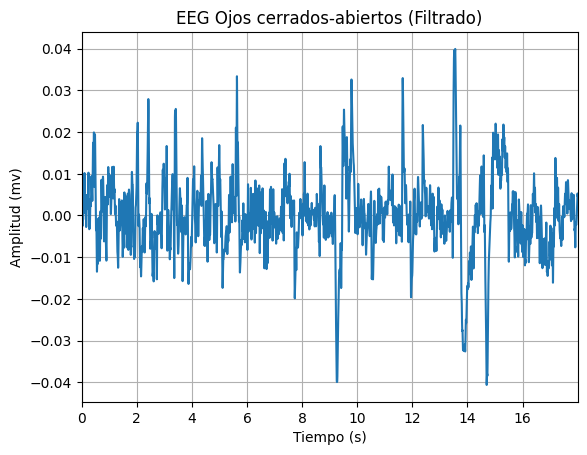
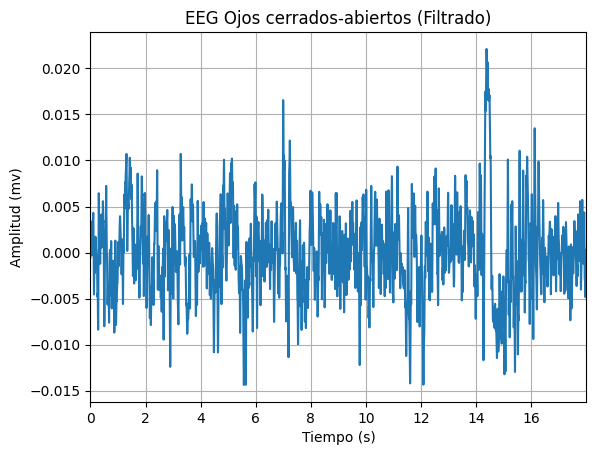
EEGcode

diff --git a/ISB/Laboratorio 6 - Filtros digitales/Informe.md b/ISB/Laboratorio 6 - Filtros digitales/Informe.md
@@ -116,10 +116,10 @@ Se tomó registro de la señal en el usuario en una primera y segunda fase de re
 
 | Campo| Señal Cruda | Filtro IRR | Filtro FIR |
 |:--------------:|:--------------:|:--------------:|:--------------:|
-| Figura X. Primera fase de referencia |![alt text](image-16.png) | ![alt text](image-15.png) | ![alt text](imageX.png) |
-| Figura X. Fase 2 - Ciclo de "ojos cerrados-abiertos" |![alt text](image-12.png) |![alt text](image-11.png) |![alt text](imageX.png) |
-| Figura X. Ejercicios mentales simples | ![alt text](image-27.png)| ![alt text](image-26.png)|![alt text](imageX.png) |
-| Figura X. Ejercicios mentales complejo |![alt text](image-29.png)| ![alt text](image-28.png) |![alt text](imageX.png) |
+| Figura X. Primera fase de referencia |![alt text](image-36.png) | ![alt text](image-15.png) | ![alt text](image-16.png) |
+| Figura X. Fase 2 - Ciclo de "ojos cerrados-abiertos" |![alt text](image-12.png) |![alt text](image-11.png)|![alt text](image-35.png)|
+| Figura X. Ejercicios mentales simples | ![alt text](image-27.png)| ![alt text](image-26.png)|![alt text](image-33.png) |
+| Figura X. Ejercicios mentales complejo |![alt text](image-29.png)| ![alt text](image-28.png) |![alt text](image-34.png)|
 
 
 ## Código en Python
@@ -512,8 +512,89 @@ plt.margins(0, 0.05)
 
 ``` python
 
+fs=1000 #Frecuencia de muestreo
+t = [num / fs for num in n]; N=len(n)
+M = 37;
+Fc = 50
+wc = 2*np.pi*Fc/fs
+w = firwin(numtaps=M, cutoff=[8,12], window='blackman', fs=1000,pass_zero=False)
+w = np.round(w,3)
+nm = np.arange(M)
+W = np.fft.fft(w,N)
+W = np.round(W[0:N//2],3)
+y_filtrado = lfilter(w, np.array(1),EEGsignal3)
 
+plt.figure()
+n = [i/1000 for i in range(0,len(y_filtrado))]
+plt.plot(n[2600: 4200], y_filtrado[2600: 4200])
+plt.ylabel("Amplitud (mv)")
+plt.xlabel("Tiempo (s)")
+plt.title("EEG en Estado Basal (Referencia) (Filtrado)")
+plt.grid(True)
+plt.margins(0, 0.05)
 
+fs=1000 #Frecuencia de muestreo
+t = [num / fs for num in n]; N=len(n)
+M = 37;
+Fc = 50
+wc = 2*np.pi*Fc/fs
+w = firwin(numtaps=M, cutoff=[30,40], window='blackman', fs=1000, pass_zero=False)
+w = np.round(w,3)
+nm = np.arange(M)
+W = np.fft.fft(w,N)
+W = np.round(W[0:N//2],3)
+y_filtrado = lfilter(w, np.array(1),EEGsignal2)
+
+plt.figure()
+n = [i/1000 for i in range(0,len(y_filtrado))]
+plt.plot(n[2600: 4200], y_filtrado[2600: 4200])
+plt.ylabel("Amplitud (mv)")
+plt.xlabel("Tiempo (s)")
+plt.title("EEG en Durante Ejericios Simples (Filtrado)")
+plt.grid(True)
+plt.margins(0, 0.05)
+
+fs=1000 #Frecuencia de muestreo
+t = [num / fs for num in n]; N=len(n)
+M = 37;
+Fc = 50
+wc = 2*np.pi*Fc/fs
+w = firwin(numtaps=M, cutoff=[30,40], window='blackman', fs=1000, pass_zero=False)
+w = np.round(w,3)
+nm = np.arange(M)
+W = np.fft.fft(w,N)
+W = np.round(W[0:N//2],3)
+y_filtrado = lfilter(w, np.array(1),EEGsignal1)
+
+plt.figure()
+n = [i/1000 for i in range(0,len(y_filtrado))]
+plt.plot(n[2600: 4200], y_filtrado[2600: 4200])
+plt.ylabel("Amplitud (mv)")
+plt.xlabel("Tiempo (s)")
+plt.title("EEG en Durante Ejericios Difíciles (Filtrado)")
+plt.grid(True)
+plt.margins(0, 0.05)
+
+fs=1000 #Frecuencia de muestreo
+t = [num / fs for num in n]; N=len(n)
+M = 37;
+Fc = 50
+wc = 2*np.pi*Fc/fs
+w = firwin(numtaps=M, cutoff=[8,12], window='blackman', fs=1000,pass_zero=False)
+w = np.round(w,3)
+nm = np.arange(M)
+W = np.fft.fft(w,N)
+W = np.round(W[0:N//2],3)
+y_filtrado = lfilter(w, np.array(1),EEGsignal4)
+
+plt.figure()
+n = [i/1000 for i in range(0,len(y_filtrado))]
+plt.plot(n[2600: 4200], y_filtrado[2600: 4200])
+plt.ylabel("Amplitud (mv)")
+plt.xlabel("Tiempo (s)")
+plt.title("EEG Ojos cerrados-abiertos (Filtrado)")
+plt.grid(True)
+plt.margins(0, 0.05)
 ```
 
 ## Discusión de resultados
